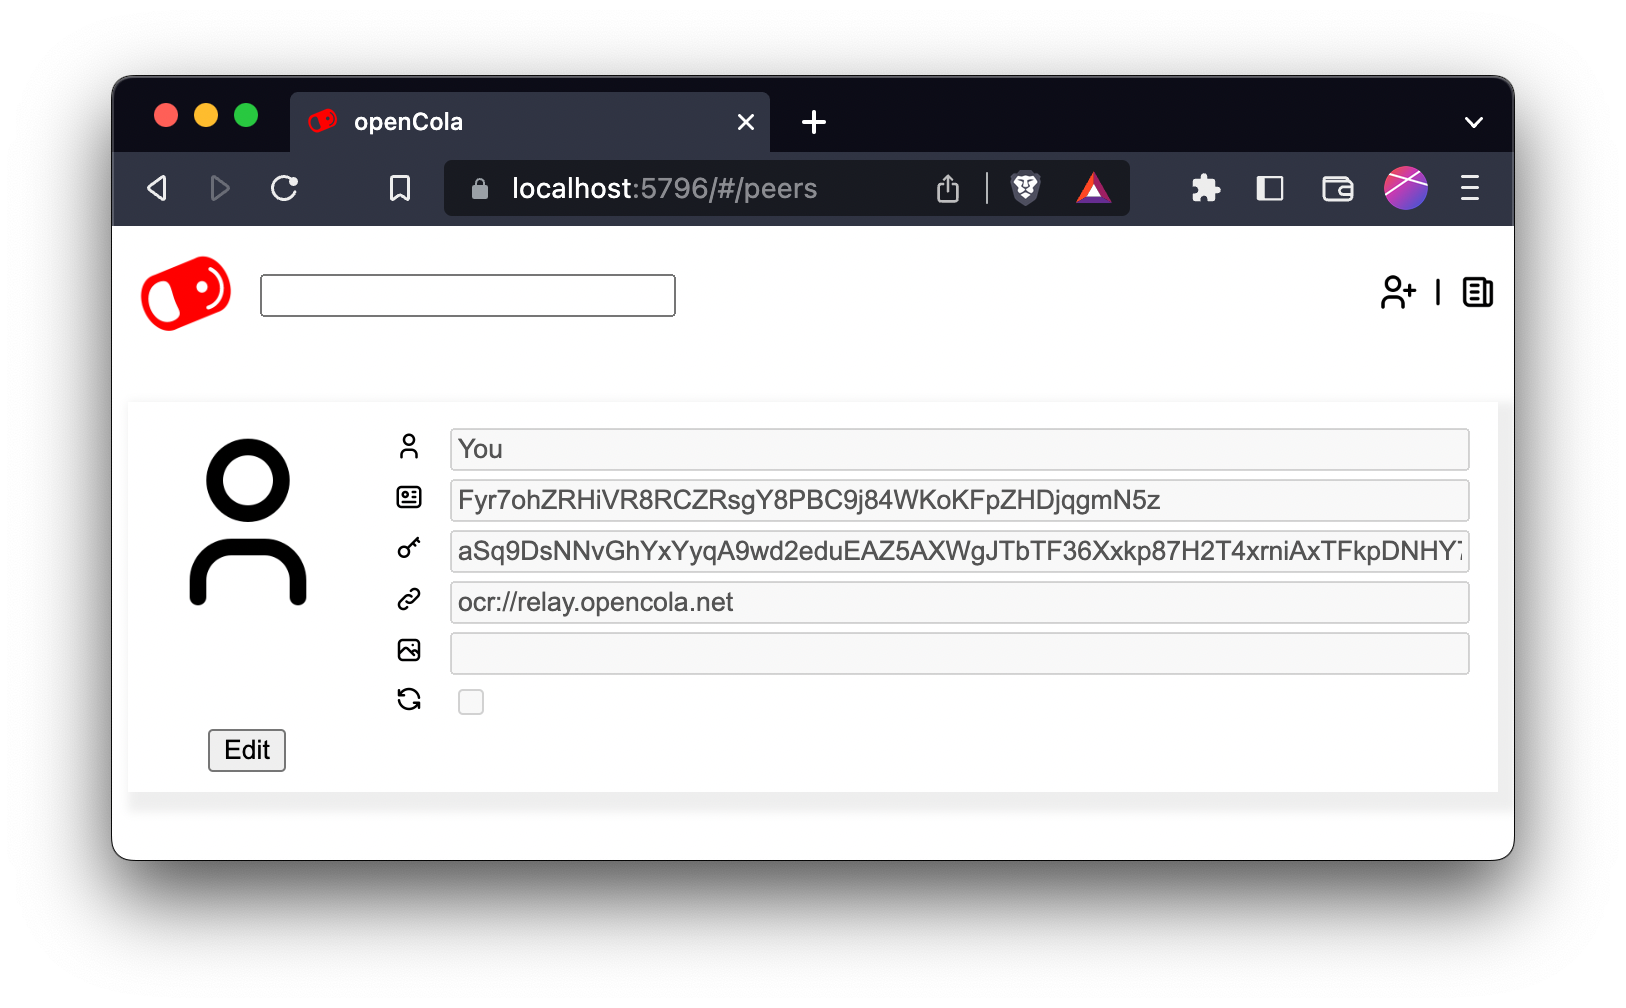
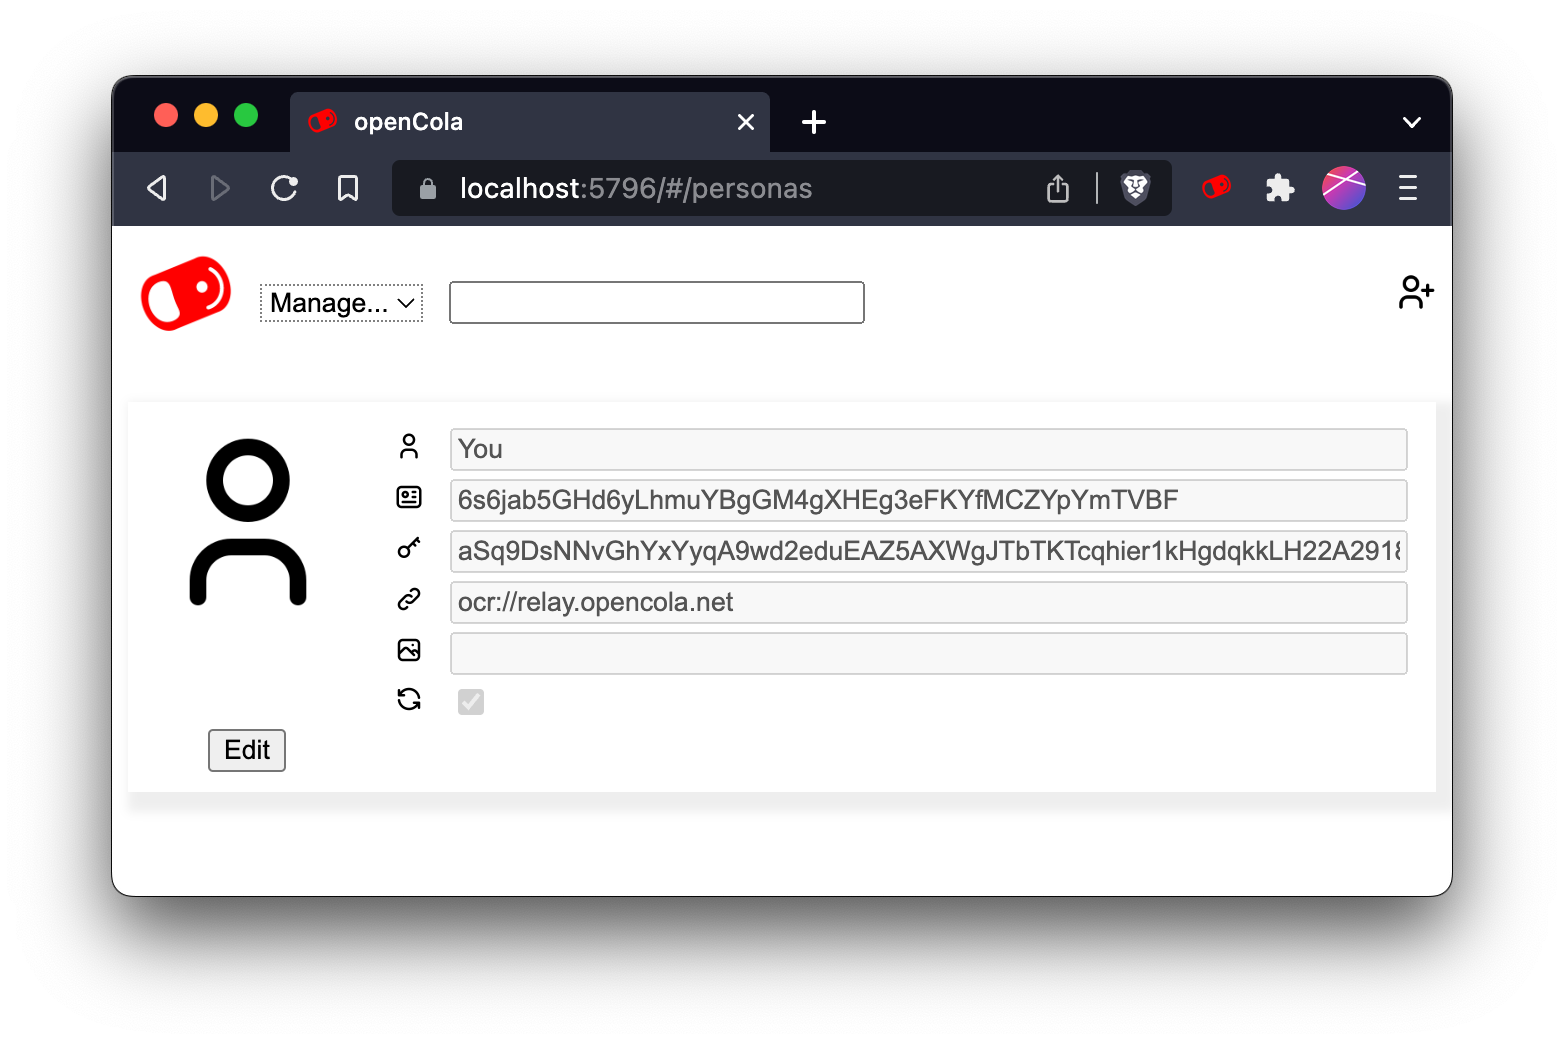
Image updates

Changed region(s): [[0.0614, 0.0615, 0.9514, 0.8611], [0.2762, 0.3075, 0.4297, 0.3383], [0.1228, 0.7073, 0.1841, 0.7688]]

diff --git a/README.md b/README.md
@@ -5,9 +5,8 @@
 Welcome to the [OpenCola](https://opencola.io) alpha. We look forward to hearing your feedback and getting help ironing out the wrinkles. While a lot of the foundation is complete, we will continually be working on adding new features and making it easier to install / use. Some key things that we will be working on:
 
 1. **Sharing arbitrary files**: Currently, the things you share must be on the web (pages, PDFs, images). We will add functionality so that you can share content directly from your computer.
-2. **Personas**: All activity is associated to single idenity. We will add functionality so that you can have different personas (family, friends, work, etc.) so that you can segment you activity in intuitive ways.
-3. **Mobile Apps**: You can use OpenCola on mobile as a web app, but we intend to have native apps to make things easier to use.
-4. **Data Importers**: Since most people have a lot of content on existing sites, we will implement importers to make it easy to import activity into OpenCola.
+2. **Mobile Apps**: You can use OpenCola on mobile as a web app, but we intend to have native apps to make things easier to use.
+3. **Data Importers**: Since most people have a lot of content on existing sites, we will implement importers to make it easy to import activity into OpenCola.
 
 Feel free to add issues you come across to [issues](https://github.com/johnmidgley/opencola-alpha/issues) for this repo (preferred) or email dev@opencola.io. If you have questions, please use the [discussions](https://github.com/johnmidgley/opencola-alpha/discussions) area, so that others can benefit from the answers. 
 
@@ -114,7 +113,7 @@ The various icons mean:
 | --- | --- |
 | <img src="img/green-light-icon.png" width="25" /> | Staus of the extension. Green means all good, yellow means working, and red means error. Check the Javascript console for more info on error. |
 | <img src="img/save.png" width="25" /> | Save the current page (Add to feed, store archive, and index for search) |
-| <img src="img/like.png" width="25" /> | Like the current page (saves page implicitly |
+| <img src="img/like.png" width="25" /> | Like the current page (saves page implicitly) |
 | <img src="img/trust.png" width="25" /> | Trust the current page (saves page implicitly) |
 | <img src="img/search.png" width="25" /> | Go to search / feed page |
 

diff --git a/docs/setting-up.md b/docs/setting-up.md
@@ -3,7 +3,7 @@
 # Setting Up
 
 After starting OpenCola and installing certificates, you will see:
-<img src="img/new-user.png" />
+<img src="img/new-user.png" width="800"/>
 Enter any username you want (it is only seen by you and used to log in), a password and confirm it. 
 
 <p> <strong>*** Save this password somewhere safe. If you lose it, you can reocover your data, but your identity will be
@@ -19,12 +19,12 @@ lost and you will have to reconnect with any peers ***</strong> </p>
 
 Click <strong>Start</strong>, after which you will see:
 
-<img src="img/carbonating.png" />
+<img src="img/carbonating.png" width="800"/>
 
 The server will take a few seconds to create and initialize your storage, after which you will end up on your feed:
-<img src="img/initial-feed.png" />
+<img src="img/initial-feed.png" width="800" />
 
-You can set a display name and image for yourself in peer settings by clicking the <img src="img/peers.png" width="15" />. This view shows you, along with any peers your have (connecting to others will be described later). To edit fields, click <strong>Edit</strong> 
+You can set a display name and image for yourself by clicking the persona selector and selecting manage. This view shows you all the personas you have created. To edit fields, click <strong>Edit</strong>. To add a new persona, click the <img src="../img/add-peer.png" width="15" /> icon.
 
 <img src="img/set-info.png" width="800" />
 
@@ -32,7 +32,7 @@ The fields for each entry are
 
 | Field | Description |
 | --- | --- |
-| <img src="../img/peers.png" width="15" /> | Name visible to peers when you connect (more later) |
+| <img src="img/user.png" width="15" /> | Name visible to peers when you connect (more later) |
 | <img src="img/id.png" width="15" /> | Your gobally unique OpenCola user id - not changeable |
 | <img src="img/key.png" width="15" /> | A cryptogrpahic public key used to encrypt and sign data - not changeable yet |
 | <img src="img/link.png" width="15" /> | The address at which peers can request data from you. Default is to use the OpencCola relay server (see [Managing Peers](#managing-peers) for more details) |
